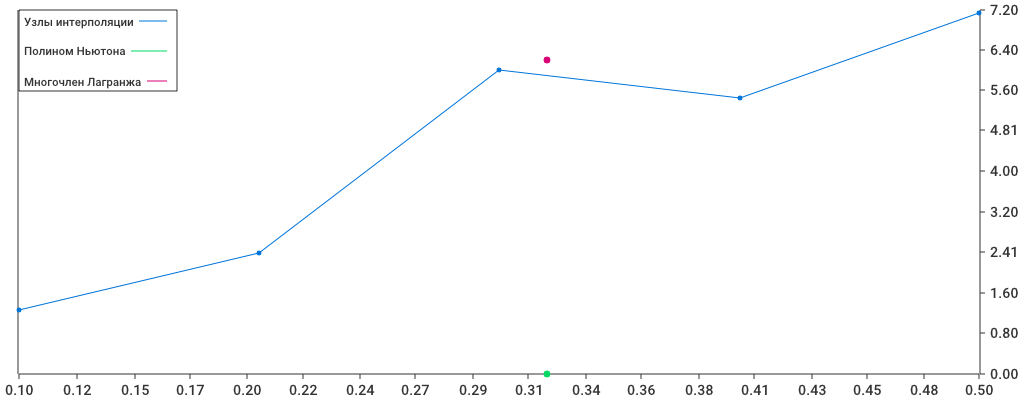
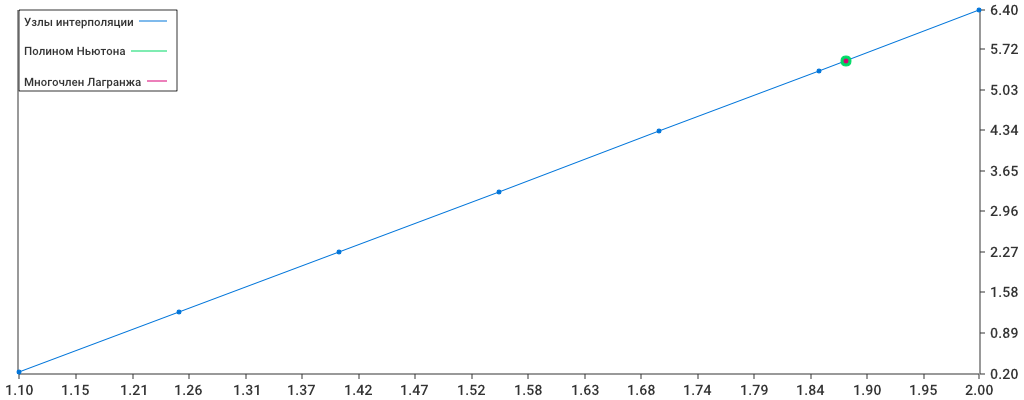
it works

diff --git a/methods/Newton.go b/methods/Newton.go
@@ -7,7 +7,7 @@ import (
 
 func NewtonPolynomial(data utils.XY, arg float64) (yValue float64, description string, estimationError float64) {
 	n := data.GetLength()
-	f := func(x float64) float64 {
+	f := func(x float64) (float64, [][]float64) {
 		table := make([][]float64, n)
 		for i := range table {
 			table[i] = make([]float64, n)
@@ -18,32 +18,78 @@ func NewtonPolynomial(data utils.XY, arg float64) (yValue float64, description s
 		}
 		for j := 1; j < n; j++ {
 			for i := 0; i < n-j; i++ {
-				table[i][j] = (table[i+1][j-1] - table[i][j-1]) / (data.X[i+j] - data.X[i])
+				table[i][j] = table[i+1][j-1] - table[i][j-1]
 			}
 		}
 
-		var sum = 0.0
-		for i := 0; i < n; i++ {
-			var diff = table[0][i]
-			for j := 0; j < i; j++ {
-				diff *= x - data.X[j]
+		//AAAAAAAAAAAAAAAAAAAAAAAAAAAAAAAAAAAAAAAAAAAAAAAAAA
+
+		h := data.X[1] - data.X[0]
+		xMid := (data.X[0] + data.X[n-1]) / 2
+		if x > xMid {
+			t := (x - data.X[n-1]) / h
+			result := table[n-1][0]
+			for i := 1; i < n; i++ {
+				compT := 1.0
+				currT := t
+				for j := 0; j < i; j++ {
+					compT *= currT
+					currT += 1
+				}
+				result += compT * table[n-i-1][i] / float64(utils.Factorial(i))
 			}
-		}
-		// Table
-		fmt.Println("Таблица конечных разностей")
-		for i, list := range table {
-			for j, element := range list {
-				if n-i > j {
-					fmt.Printf("%f ", element)
-				} else {
-					fmt.Printf("")
+			return result, table
+		} else {
+			leftIndex := -1
+			for i := 0; i < n-1; i++ {
+				if data.X[i] < x && x < data.X[i+1] {
+					leftIndex = i
+					break
+				} else if x == data.X[i] {
+					return data.Y[i], table
+				} else if x == data.X[i+1] {
+					return data.Y[i+1], table
 				}
 			}
-			fmt.Println("")
+			if leftIndex == -1 {
+				if x > data.X[n-1] {
+					leftIndex = n - 1
+				} else {
+					leftIndex = 0
+				}
+			}
+			t := (x - data.X[leftIndex]) / h
+			result := table[leftIndex][0]
+			for i := 1; i < n-leftIndex; i++ {
+				compT := 1.0
+				currT := t
+				for j := 0; j < i; j++ {
+					compT *= currT
+					currT--
+				}
+				result += compT * table[leftIndex][i] / float64(utils.Factorial(i))
+			}
+			return result, table
 		}
-		return sum
+
 	}
-	value := f(arg)
-	//errorEst := errorEstimation(data.X, f, arg)
-	return value, "Полином Ньютона", 0
+	fWrapValue := func(x float64) float64 {
+		val, _ := f(x)
+		return val
+	}
+	value := fWrapValue(arg)
+	errorEst := errorEstimation(data.X, fWrapValue, arg)
+	_, table := f(arg)
+	fmt.Println("Таблица конечных разностей")
+	for i, list := range table {
+		for j, element := range list {
+			if n-i > j {
+				fmt.Printf("%f ", element)
+			} else {
+				fmt.Printf("")
+			}
+		}
+		fmt.Println("")
+	}
+	return value, "Полином Ньютона", errorEst
 }

diff --git a/main.go b/main.go
@@ -13,6 +13,12 @@ import (
 // TODO: Многочлен Лагранжа,
 // TODO: Многочлен Ньютона с конечными разностями
 func main() {
+	testF := func(x float64) float64 { return x * x }
+	dtest := utils.Derive(testF)
+	for i := 0; i < 6; i++ {
+		fmt.Println(testF(float64(i)), dtest(float64(i)))
+	}
+
 	var eqn1 = utils.Equation{
 		F:              func(x float64) float64 { return math.Pow(x, 2) },
 		NameOfFunction: "y = x^2",
@@ -23,10 +29,33 @@ func main() {
 	}
 
 	data := IO.UserInput(eqn1, eqn2)
-	fmt.Println("XXX: ", data.X, "YYY: ", data.Y)
+	if true {
+		// Previous precision checking routine
+		h := math.Round(data.X[1]*1000) - math.Round(data.X[0]*1000)
+		for i := 1; i < len(data.X); i++ {
+			if math.Round(data.X[i]*1000)-math.Round(data.X[i-1]*1000) != h {
+				fmt.Println(math.Round(data.X[i]*1000)-math.Round(data.X[i-1]*1000), h)
+				fmt.Println(utils.BAD_DOTS)
+				os.Exit(0)
+			}
+		}
+	} else {
+		precision := 0.1
+		for i := 1; i < len(data.X); i++ {
+			if math.Abs(data.X[i]-data.X[i-1]) > precision {
+				fmt.Println(utils.BAD_DOTS)
+				os.Exit(0)
+			}
+		}
+	}
+
 	fmt.Println(utils.INPUT_X0)
 	var argument float64
 	fmt.Scan(&argument)
+	if (argument > data.X[len(data.X)-1]) || (argument < data.X[0]) {
+		fmt.Println(utils.BAD_DOT)
+		os.Exit(0)
+	}
 	newtonResult, newtonName, newtonErr := methods.NewtonPolynomial(data, argument)
 	lagrResult, lagrName, largErr := methods.LagrangeInterpolation(data, argument)
 	graph := chart.Chart{
@@ -40,14 +69,14 @@ func main() {
 				YValues: data.Y,
 			}, chart.ContinuousSeries{
 				Style: chart.Style{
-					DotWidth: 3,
+					DotWidth: 5,
 				},
 				Name:    newtonName,
 				XValues: []float64{argument},
 				YValues: []float64{newtonResult},
 			}, chart.ContinuousSeries{
 				Style: chart.Style{
-					DotWidth: 3,
+					DotWidth: 2,
 				},
 				Name:    lagrName,
 				XValues: []float64{argument},

diff --git a/utils/literals.go b/utils/literals.go
@@ -16,8 +16,10 @@ const (
 	INPUT_ERR      = "Ошибка в ведённых данных. Проверьте корректность значения и повторите ввод: "
 	INPUT_X0       = "Введите значение X, для которого надо найти значение функции: "
 	INPUT_INTERVAL = "Задайте границы интервала через пробел: "
-	NUMBER_OF_DOTS = "Количество точек должно быть целым числом в пределах [7, 12]." +
+	NUMBER_OF_DOTS = "Количество точек должно быть целым числом." +
 		"\nКоличество точек: "
-	INPUT_X = "Введите значения X через пробел: "
-	INPUT_Y = "Введите значения Y через пробел: "
+	INPUT_X  = "Введите значения X через пробел: "
+	INPUT_Y  = "Введите значения Y через пробел: "
+	BAD_DOTS = "Точки не равноудалённые :("
+	BAD_DOT  = "Точка должна находиться внутри интервала"
 )

diff --git a/IO/InputMethods.go b/IO/InputMethods.go
@@ -4,6 +4,7 @@ import (
 	"FunctionInterpolation/utils"
 	"bufio"
 	"fmt"
+	"math"
 	"os"
 	"strconv"
 	"strings"
@@ -33,7 +34,7 @@ func UserInput(eqn1, eqn2 utils.Equation) utils.XY {
 
 func fileInput() utils.XY {
 	var numberOfElements int
-	f, _ := os.Open("data/test1.txt")
+	f, _ := os.Open("data/test2.txt")
 	scanner := bufio.NewScanner(f)
 	scanner.Scan()
 	line := scanner.Text()
@@ -138,13 +139,14 @@ func functionInput(eqn1, eqn2 utils.Equation) utils.XY {
 	}
 	dataX := []float64{}
 	dataY := []float64{}
-	h := (xn - x0) / float64(numberOfElements)
+	h := (xn - x0) / float64(numberOfElements-1)
 
-	for i := x0; i < xn; i += h {
-		dataX = append(dataX, i)
-		dataY = append(dataY, eqn.F(i))
+	for i := x0; i < xn+h; i += h {
+		val := math.Round(i*10000) / 10000
+		dataX = append(dataX, val)
+		dataY = append(dataY, math.Round(eqn.F(val)*10000)/10000)
 	}
-
+	fmt.Println("X: ", dataX, " Y : ", dataY)
 	return utils.XY{
 		X: dataX,
 		Y: dataY,

diff --git a/methods/Lagrange.go b/methods/Lagrange.go
@@ -6,7 +6,6 @@ import (
 )
 
 func LagrangeInterpolation(data utils.XY, arg float64) (yValue float64, description string, estimationError float64) {
-
 	n := data.GetLength()
 	f := func(x float64) float64 {
 		sum := 0.0
@@ -37,15 +36,15 @@ func errorEstimation(xData []float64, f func(x float64) float64, arg float64) fl
 		fn1 = utils.Derive(fn1)
 	}
 	f2 := func(x float64) float64 {
-		p := 1.
-		for i := 0; i < n; i++ {
+		p := 1.0
+		for i := 0; i <= n; i++ {
 			p *= x - xData[i]
 		}
 		return p
 	}
-	max := 0.
+	max := 0.0
 	for _, element := range xData {
-		max = math.Max(max, f(element))
+		max = math.Max(max, fn1(element))
 	}
-	return math.Abs(max*f2(arg)) / float64(utils.Factorial(n+1))
+	return math.Abs(max * f2(arg) / float64(utils.Factorial(n+1)))
 }

diff --git a/utils/methods.go b/utils/methods.go
@@ -2,7 +2,7 @@ package utils
 
 import "math/big"
 
-const dx = 0.000001
+const dx = 1.0
 
 func Derive(f func(x float64) float64) func(x float64) float64 {
 	return func(x float64) float64 {
